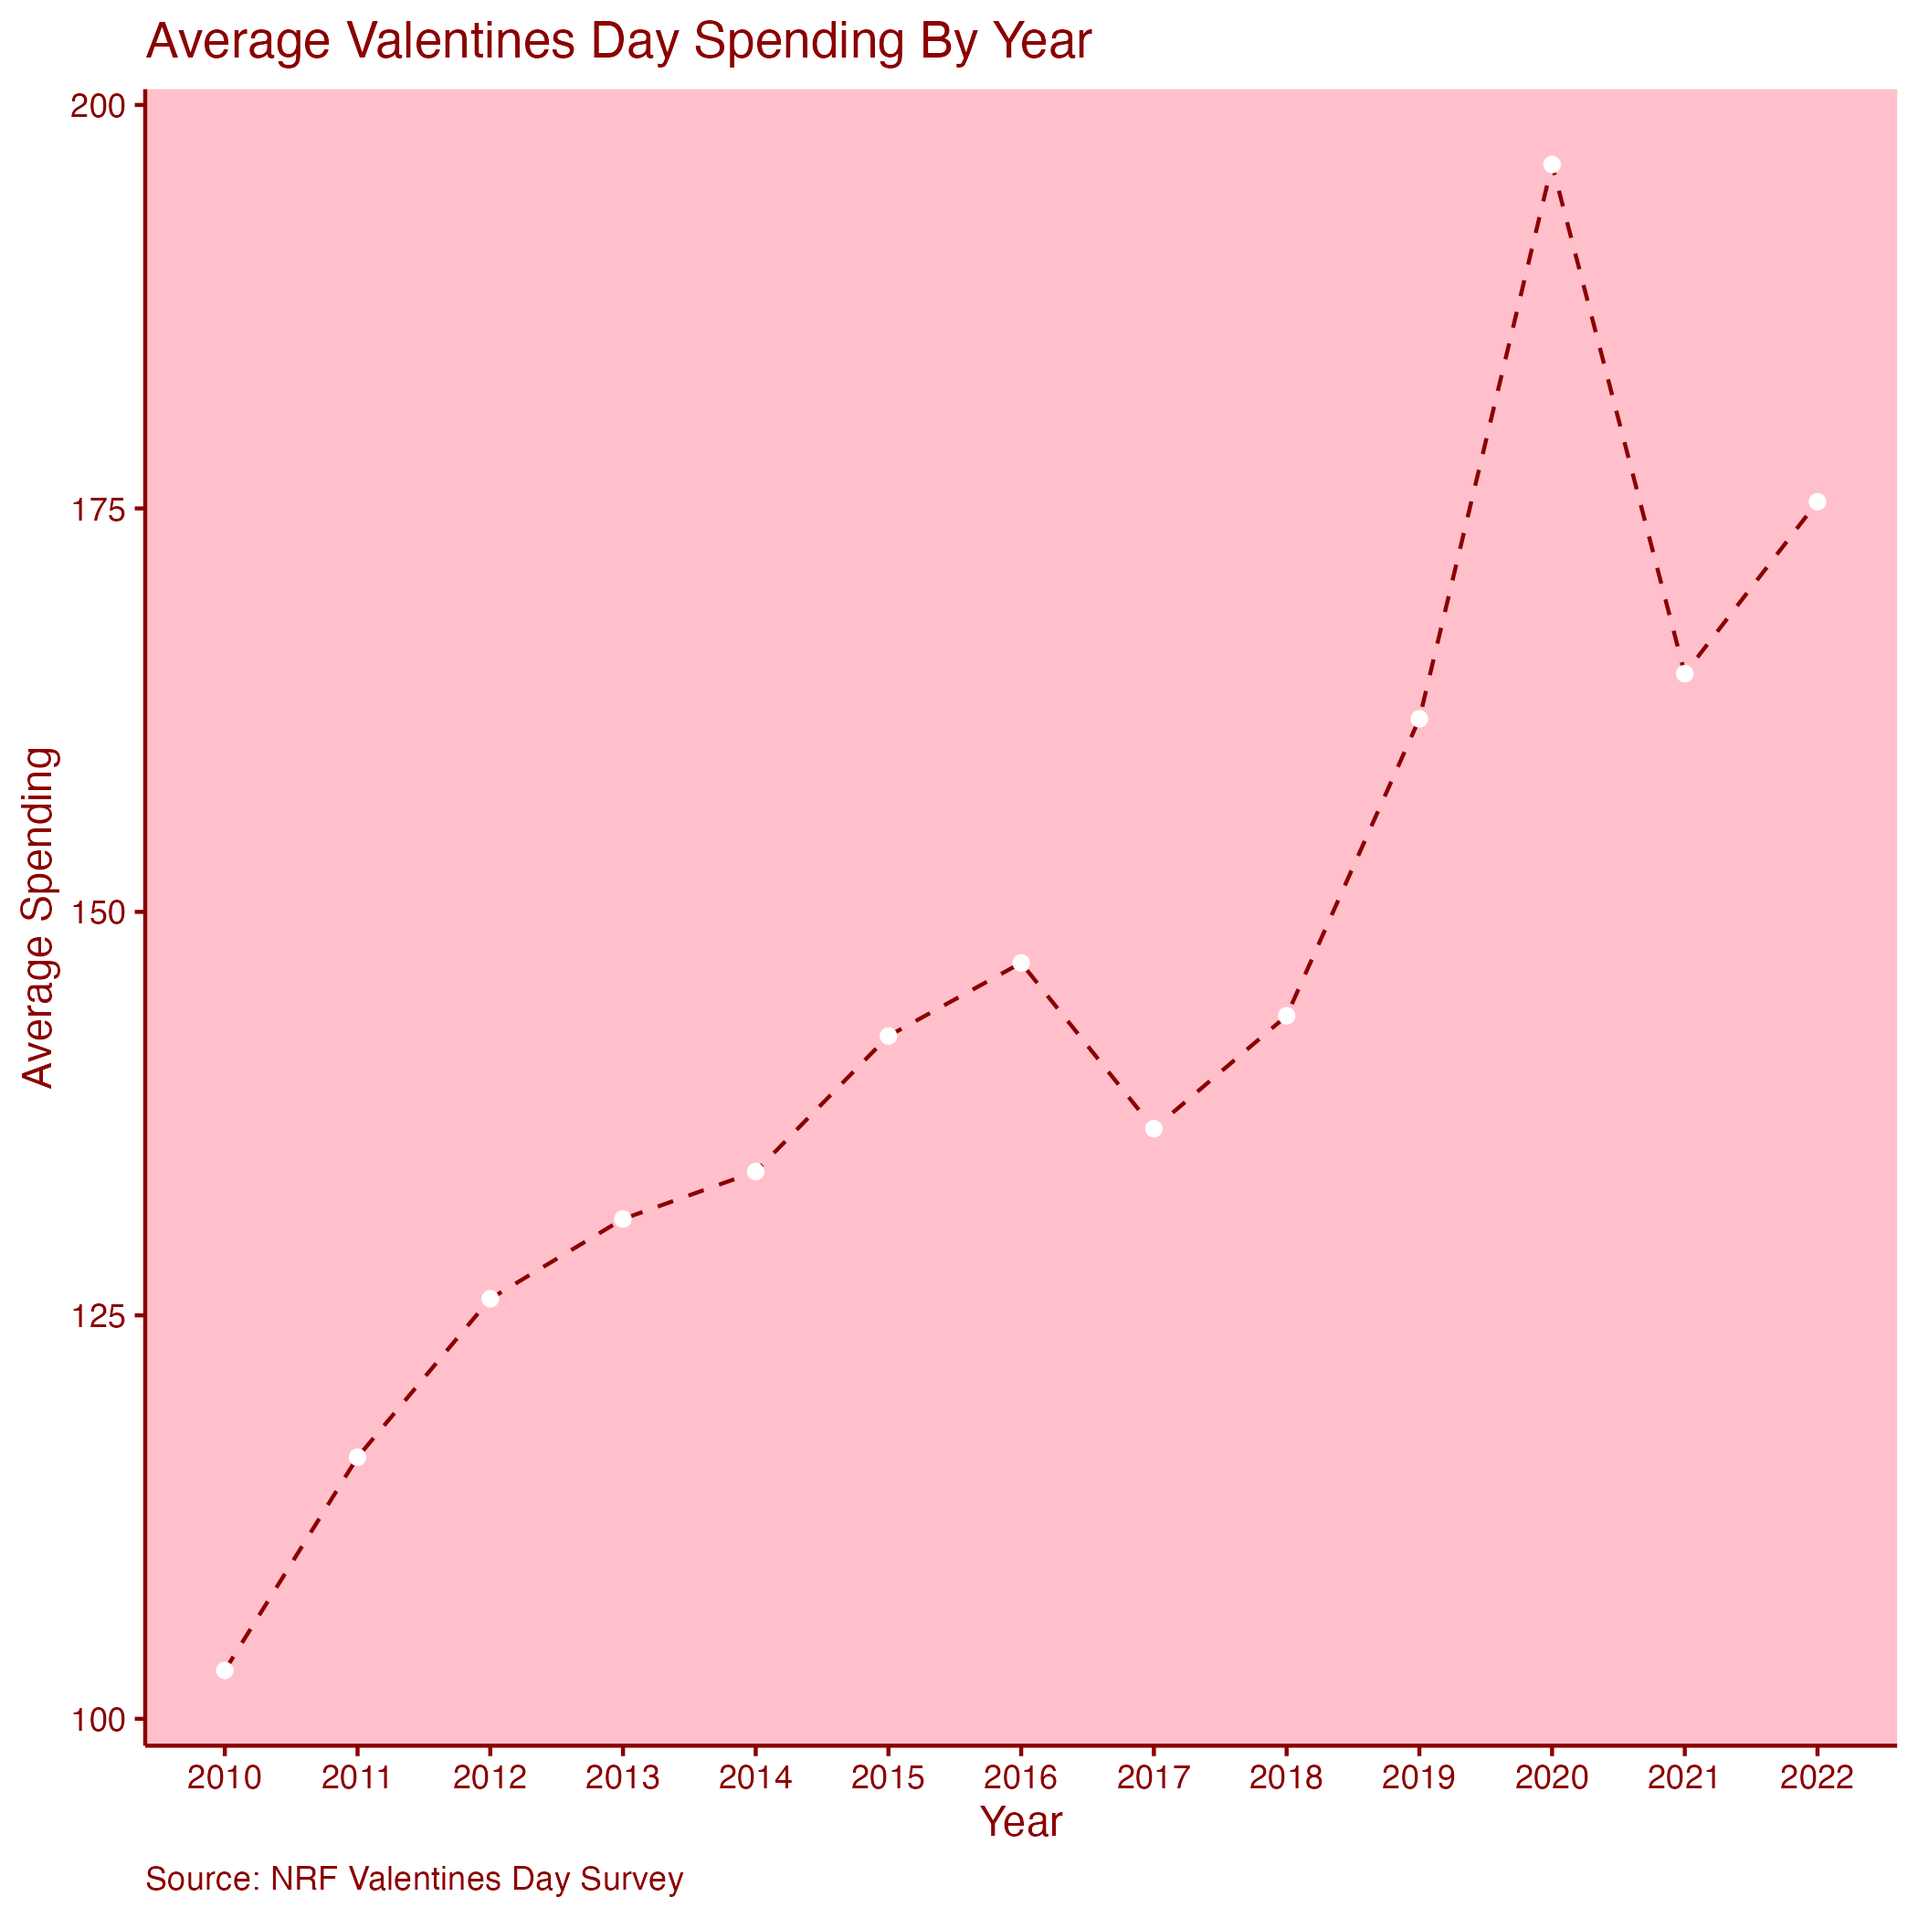
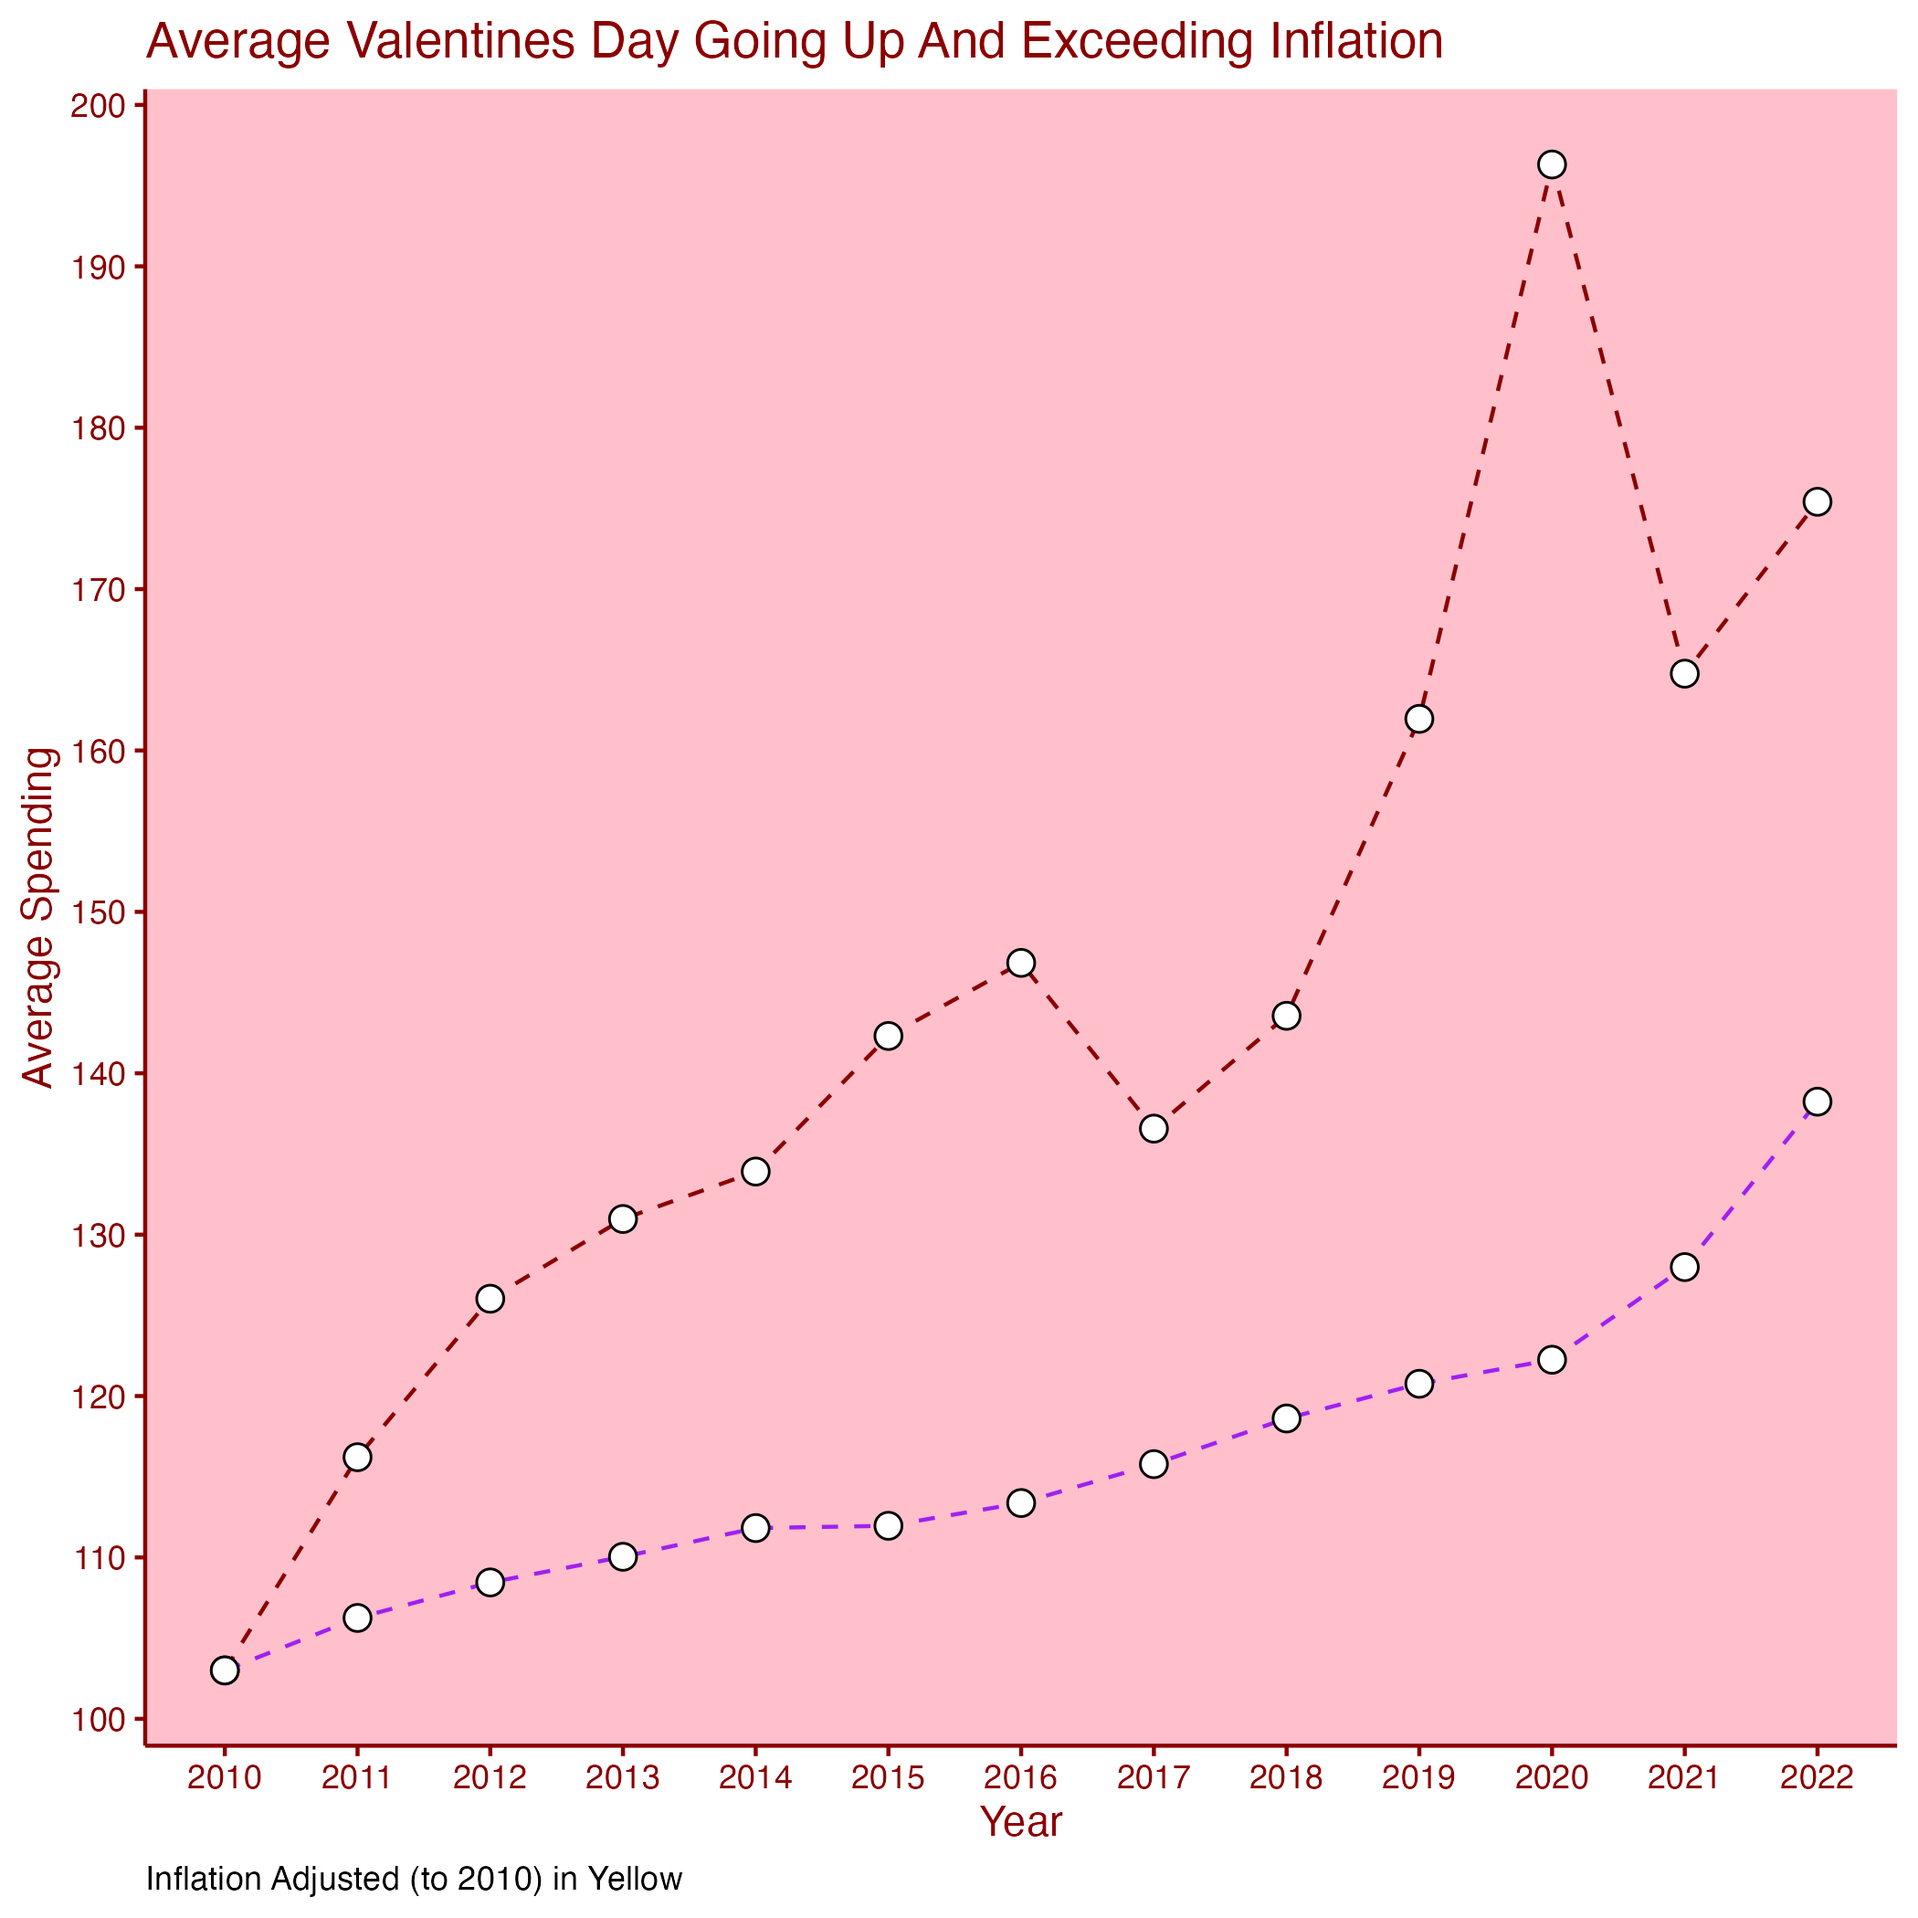
Changes to graph

diff --git a/_site/tidytuesday/2_14_24/index.html b/_site/tidytuesday/2_14_24/index.html
@@ -351,17 +351,22 @@ pre > code.sourceCode > span > a:first-child::before { text-decoration: underlin
 </header><div class="cell">
 <div class="sourceCode" id="cb1"><pre class="downlit sourceCode r code-with-copy"><code class="sourceCode R"><span><span class="kw"><a href="https://rdrr.io/r/base/library.html">library</a></span><span class="op">(</span><span class="va"><a href="https://tidyverse.tidyverse.org">tidyverse</a></span><span class="op">)</span></span>
 <span></span>
+<span><span class="va">historical_spending</span> <span class="op">&lt;-</span> <span class="fu"><a href="https://rdrr.io/r/utils/read.table.html">read.csv</a></span><span class="op">(</span><span class="st">"historical_spending_modified.csv"</span><span class="op">)</span></span>
+<span></span>
 <span><span class="va">historical_spending</span> <span class="op">&lt;-</span> <span class="va">historical_spending</span> <span class="op"><a href="https://magrittr.tidyverse.org/reference/pipe.html">%&gt;%</a></span> </span>
 <span>  <span class="fu"><a href="https://dplyr.tidyverse.org/reference/mutate.html">mutate</a></span><span class="op">(</span>PerPerson <span class="op">=</span> <span class="fu"><a href="https://rdrr.io/r/base/numeric.html">as.numeric</a></span><span class="op">(</span><span class="va">PerPerson</span><span class="op">)</span><span class="op">)</span></span>
 <span></span>
 <span><span class="va">plot</span> <span class="op">&lt;-</span> <span class="fu"><a href="https://ggplot2.tidyverse.org/reference/ggplot.html">ggplot</a></span><span class="op">(</span>data<span class="op">=</span><span class="va">historical_spending</span>,<span class="fu"><a href="https://ggplot2.tidyverse.org/reference/aes.html">aes</a></span><span class="op">(</span>x<span class="op">=</span><span class="va">Year</span>,y<span class="op">=</span><span class="va">PerPerson</span><span class="op">)</span><span class="op">)</span> <span class="op">+</span> </span>
 <span>  <span class="fu"><a href="https://ggplot2.tidyverse.org/reference/scale_continuous.html">scale_x_continuous</a></span><span class="op">(</span>breaks <span class="op">=</span> <span class="fu"><a href="https://rdrr.io/r/base/seq.html">seq</a></span><span class="op">(</span><span class="fl">2010</span>,<span class="fl">2022</span>,by<span class="op">=</span><span class="fl">1</span><span class="op">)</span><span class="op">)</span> <span class="op">+</span> </span>
+<span>  <span class="fu"><a href="https://ggplot2.tidyverse.org/reference/scale_continuous.html">scale_y_continuous</a></span><span class="op">(</span>breaks <span class="op">=</span> <span class="fu"><a href="https://rdrr.io/r/base/seq.html">seq</a></span><span class="op">(</span><span class="fl">100</span>,<span class="fl">200</span>,by<span class="op">=</span><span class="fl">10</span><span class="op">)</span><span class="op">)</span> <span class="op">+</span></span>
 <span>  <span class="fu"><a href="https://ggplot2.tidyverse.org/reference/geom_path.html">geom_line</a></span><span class="op">(</span>color<span class="op">=</span><span class="st">"darkred"</span>,linetype<span class="op">=</span><span class="st">"dashed"</span><span class="op">)</span> <span class="op">+</span></span>
 <span>  <span class="fu"><a href="https://ggplot2.tidyverse.org/reference/geom_point.html">geom_point</a></span><span class="op">(</span>shape <span class="op">=</span> <span class="fl">21</span>, colour <span class="op">=</span> <span class="st">"black"</span>, fill <span class="op">=</span> <span class="st">"white"</span>, size <span class="op">=</span> <span class="fl">3</span><span class="op">)</span> <span class="op">+</span></span>
+<span>  <span class="fu"><a href="https://ggplot2.tidyverse.org/reference/geom_path.html">geom_line</a></span><span class="op">(</span><span class="fu"><a href="https://ggplot2.tidyverse.org/reference/aes.html">aes</a></span><span class="op">(</span>x<span class="op">=</span><span class="va">Year</span>,y<span class="op">=</span><span class="va">inflation</span><span class="op">)</span>,color<span class="op">=</span><span class="st">"purple"</span>,linetype<span class="op">=</span><span class="st">"dashed"</span><span class="op">)</span> <span class="op">+</span></span>
+<span>  <span class="fu"><a href="https://ggplot2.tidyverse.org/reference/geom_point.html">geom_point</a></span><span class="op">(</span><span class="fu"><a href="https://ggplot2.tidyverse.org/reference/aes.html">aes</a></span><span class="op">(</span>x<span class="op">=</span><span class="va">Year</span>,y<span class="op">=</span><span class="va">inflation</span><span class="op">)</span>, shape <span class="op">=</span> <span class="fl">21</span>, colour <span class="op">=</span> <span class="st">"black"</span>, fill <span class="op">=</span> <span class="st">"white"</span>, size <span class="op">=</span> <span class="fl">3</span><span class="op">)</span> <span class="op">+</span></span>
 <span>  <span class="fu"><a href="https://ggplot2.tidyverse.org/reference/labs.html">labs</a></span><span class="op">(</span>x <span class="op">=</span> <span class="st">"Year"</span>,</span>
 <span>       y <span class="op">=</span> <span class="st">"Average Spending"</span>,</span>
-<span>       title <span class="op">=</span> <span class="st">"Average Valentines Day Spending Is Going Up By Year"</span>,</span>
-<span>       caption <span class="op">=</span> <span class="st">"Source: NRF Valentines Day Survey"</span><span class="op">)</span> <span class="op">+</span></span>
+<span>       title <span class="op">=</span> <span class="st">"Average Valentines Day Going Up And Exceeding Inflation"</span>,</span>
+<span>       caption <span class="op">=</span> <span class="st">"Inflation Adjusted (to 2010) in Purple"</span><span class="op">)</span> <span class="op">+</span></span>
 <span>  <span class="fu"><a href="https://ggplot2.tidyverse.org/reference/ggtheme.html">theme_classic</a></span><span class="op">(</span><span class="op">)</span> <span class="op">+</span></span>
 <span>  <span class="fu"><a href="https://ggplot2.tidyverse.org/reference/theme.html">theme</a></span><span class="op">(</span>plot.title <span class="op">=</span> <span class="fu"><a href="https://ggplot2.tidyverse.org/reference/element.html">element_text</a></span><span class="op">(</span>color<span class="op">=</span><span class="st">"darkred"</span><span class="op">)</span>,</span>
 <span>        axis.title.x <span class="op">=</span> <span class="fu"><a href="https://ggplot2.tidyverse.org/reference/element.html">element_text</a></span><span class="op">(</span>color<span class="op">=</span><span class="st">"darkred"</span><span class="op">)</span>,</span>
@@ -371,7 +376,7 @@ pre > code.sourceCode > span > a:first-child::before { text-decoration: underlin
 <span>        axis.ticks <span class="op">=</span> <span class="fu"><a href="https://ggplot2.tidyverse.org/reference/element.html">element_line</a></span><span class="op">(</span>color<span class="op">=</span><span class="st">"darkred"</span><span class="op">)</span>,</span>
 <span>        axis.line.x <span class="op">=</span> <span class="fu"><a href="https://ggplot2.tidyverse.org/reference/element.html">element_line</a></span><span class="op">(</span>color<span class="op">=</span><span class="st">"darkred"</span><span class="op">)</span>,</span>
 <span>        axis.line.y <span class="op">=</span> <span class="fu"><a href="https://ggplot2.tidyverse.org/reference/element.html">element_line</a></span><span class="op">(</span>color<span class="op">=</span><span class="st">"darkred"</span><span class="op">)</span>,</span>
-<span>        plot.caption <span class="op">=</span> <span class="fu"><a href="https://ggplot2.tidyverse.org/reference/element.html">element_text</a></span><span class="op">(</span>hjust <span class="op">=</span> <span class="fl">1</span>,color<span class="op">=</span><span class="st">"darkred"</span><span class="op">)</span>,</span>
+<span>        plot.caption <span class="op">=</span> <span class="fu"><a href="https://ggplot2.tidyverse.org/reference/element.html">element_text</a></span><span class="op">(</span>hjust <span class="op">=</span> <span class="fl">0</span>,color<span class="op">=</span><span class="st">"black"</span><span class="op">)</span>,</span>
 <span>        panel.background <span class="op">=</span> <span class="fu"><a href="https://ggplot2.tidyverse.org/reference/element.html">element_rect</a></span><span class="op">(</span>fill<span class="op">=</span><span class="st">"pink"</span><span class="op">)</span><span class="op">)</span></span></code><button title="Copy to Clipboard" class="code-copy-button"><i class="bi"></i></button></pre></div>
 </div>
 <div class="cell">

diff --git a/_site/tidytuesday.html b/_site/tidytuesday.html
@@ -377,7 +377,7 @@ window.Quarto = {
 
 <div class="quarto-listing quarto-listing-container-default" id="listing-listing">
 <div class="list quarto-listing-default">
-<div class="quarto-post image-right" data-index="0" data-categories="Valentines,R,TidyTuesday" data-listing-date-sort="1707886800000" data-listing-file-modified-sort="1708798110333" data-listing-date-modified-sort="NaN" data-listing-reading-time-sort="1" data-listing-word-count-sort="191">
+<div class="quarto-post image-right" data-index="0" data-categories="Valentines,R,TidyTuesday" data-listing-date-sort="1707886800000" data-listing-file-modified-sort="1708800494498" data-listing-date-modified-sort="NaN" data-listing-reading-time-sort="2" data-listing-word-count-sort="246">
 <div class="thumbnail">
 <p><a href="./tidytuesday/2_14_24/index.html" class="no-external"></a></p><a href="./tidytuesday/2_14_24/index.html" class="no-external">
 <p><img src="./tidytuesday/2_14_24/valentines.png" class="thumbnail-image" alt="A photo with a heart shape"></p>
